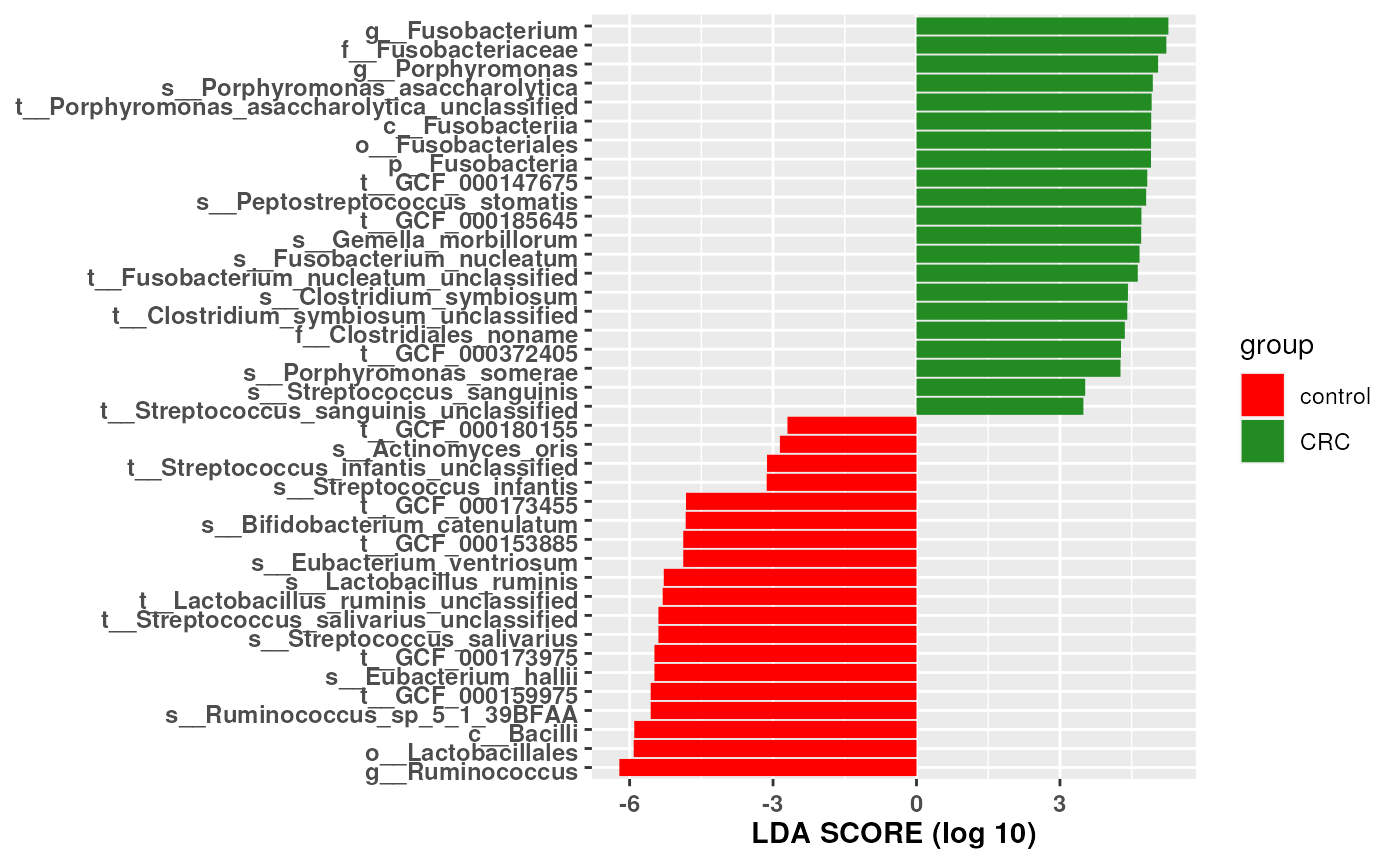
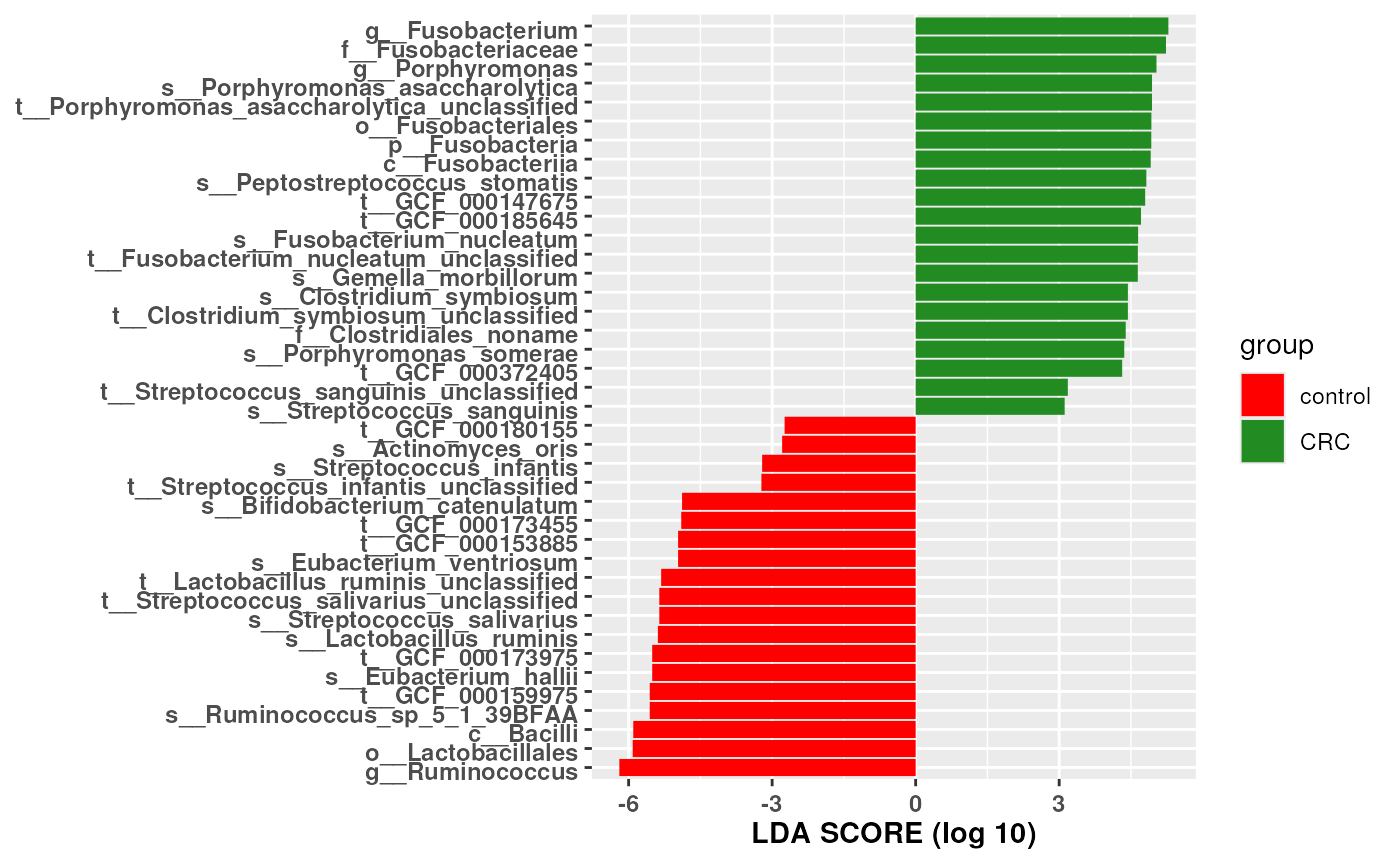
Deploying to gh-pages from @ waldronlab/lefser@6851bfaf45c864bd731128abd660fc733ccc9e46 🚀

diff --git a/articles/lefser.html b/articles/lefser.html
@@ -39,7 +39,7 @@
       </button>
       <span class="navbar-brand">
         <a class="navbar-link" href="../index.html">lefser</a>
-        <span class="version label label-default" data-toggle="tooltip" data-placement="bottom" title="">1.12.1</span>
+        <span class="version label label-default" data-toggle="tooltip" data-placement="bottom" title="">1.12.2</span>
       </span>
     </div>
 
@@ -82,7 +82,7 @@ Waldron<br><small>School of Public Health, City University of New
 York</small>
 </div></h4>
             
-            <h4 data-toc-skip class="date">2023-11-22</h4>
+            <h4 data-toc-skip class="date">2024-03-06</h4>
       
       <small class="dont-index">Source: <a href="https://github.com/waldronlab/lefser/blob/HEAD/vignettes/lefser.Rmd" class="external-link"><code>vignettes/lefser.Rmd</code></a></small>
       <div class="hidden name"><code>lefser.Rmd</code></div>
@@ -174,12 +174,12 @@ and their effect size.</p>
 <span><span class="co">## 5 k__Bacteria|p__Firmicutes|c__Clostridia|o__Clostridiales|f__Ruminococcaceae|g__Ruminococcus|s__Ruminococcus_sp_5_1_39BFAA|t__GCF_000159975</span></span>
 <span><span class="co">## 6                            k__Bacteria|p__Firmicutes|c__Clostridia|o__Clostridiales|f__Eubacteriaceae|g__Eubacterium|s__Eubacterium_hallii</span></span>
 <span><span class="co">##      scores</span></span>
-<span><span class="co">## 1 -6.214370</span></span>
-<span><span class="co">## 2 -5.914134</span></span>
-<span><span class="co">## 3 -5.902040</span></span>
-<span><span class="co">## 4 -5.558476</span></span>
-<span><span class="co">## 5 -5.558476</span></span>
-<span><span class="co">## 6 -5.480268</span></span></code></pre>
+<span><span class="co">## 1 -6.193941</span></span>
+<span><span class="co">## 2 -5.914844</span></span>
+<span><span class="co">## 3 -5.903174</span></span>
+<span><span class="co">## 4 -5.558376</span></span>
+<span><span class="co">## 5 -5.558376</span></span>
+<span><span class="co">## 6 -5.507090</span></span></code></pre>
 </div>
 <div class="section level2">
 <h2 id="visualizing-results-with-lefserplot">Visualizing results with <code>lefserPlot</code><a class="anchor" aria-label="anchor" href="#visualizing-results-with-lefserplot"></a>
@@ -273,47 +273,47 @@ follows:</p>
 <span><span class="co">## [8] base     </span></span>
 <span><span class="co">## </span></span>
 <span><span class="co">## other attached packages:</span></span>
-<span><span class="co">##  [1] phyloseq_1.46.0             lefser_1.12.1              </span></span>
+<span><span class="co">##  [1] phyloseq_1.46.0             lefser_1.12.2              </span></span>
 <span><span class="co">##  [3] SummarizedExperiment_1.32.0 Biobase_2.62.0             </span></span>
-<span><span class="co">##  [5] GenomicRanges_1.54.1        GenomeInfoDb_1.38.1        </span></span>
-<span><span class="co">##  [7] IRanges_2.36.0              S4Vectors_0.40.1           </span></span>
+<span><span class="co">##  [5] GenomicRanges_1.54.1        GenomeInfoDb_1.38.6        </span></span>
+<span><span class="co">##  [7] IRanges_2.36.0              S4Vectors_0.40.2           </span></span>
 <span><span class="co">##  [9] BiocGenerics_0.48.1         MatrixGenerics_1.14.0      </span></span>
-<span><span class="co">## [11] matrixStats_1.1.0           BiocStyle_2.30.0           </span></span>
+<span><span class="co">## [11] matrixStats_1.2.0           BiocStyle_2.30.0           </span></span>
 <span><span class="co">## </span></span>
 <span><span class="co">## loaded via a namespace (and not attached):</span></span>
-<span><span class="co">##  [1] bitops_1.0-7            permute_0.9-7           sandwich_3.0-2         </span></span>
-<span><span class="co">##  [4] rlang_1.1.2             magrittr_2.0.3          multcomp_1.4-25        </span></span>
-<span><span class="co">##  [7] ade4_1.7-22             compiler_4.3.2          mgcv_1.9-0             </span></span>
-<span><span class="co">## [10] systemfonts_1.0.5       vctrs_0.6.4             reshape2_1.4.4         </span></span>
+<span><span class="co">##  [1] bitops_1.0-7            permute_0.9-7           sandwich_3.1-0         </span></span>
+<span><span class="co">##  [4] rlang_1.1.3             magrittr_2.0.3          multcomp_1.4-25        </span></span>
+<span><span class="co">##  [7] ade4_1.7-22             compiler_4.3.2          mgcv_1.9-1             </span></span>
+<span><span class="co">## [10] systemfonts_1.0.5       vctrs_0.6.5             reshape2_1.4.4         </span></span>
 <span><span class="co">## [13] stringr_1.5.1           pkgconfig_2.0.3         crayon_1.5.2           </span></span>
 <span><span class="co">## [16] fastmap_1.1.1           XVector_0.42.0          labeling_0.4.3         </span></span>
-<span><span class="co">## [19] utf8_1.2.4              rmarkdown_2.25          ragg_1.2.6             </span></span>
-<span><span class="co">## [22] purrr_1.0.2             xfun_0.41               modeltools_0.2-23      </span></span>
-<span><span class="co">## [25] zlibbioc_1.48.0         cachem_1.0.8            jsonlite_1.8.7         </span></span>
+<span><span class="co">## [19] utf8_1.2.4              rmarkdown_2.25          ragg_1.2.7             </span></span>
+<span><span class="co">## [22] purrr_1.0.2             xfun_0.42               modeltools_0.2-23      </span></span>
+<span><span class="co">## [25] zlibbioc_1.48.0         cachem_1.0.8            jsonlite_1.8.8         </span></span>
 <span><span class="co">## [28] biomformat_1.30.0       highr_0.10              rhdf5filters_1.14.1    </span></span>
-<span><span class="co">## [31] DelayedArray_0.28.0     Rhdf5lib_1.24.0         parallel_4.3.2         </span></span>
-<span><span class="co">## [34] cluster_2.1.4           R6_2.5.1                coin_1.4-3             </span></span>
-<span><span class="co">## [37] bslib_0.5.1             stringi_1.8.1           jquerylib_0.1.4        </span></span>
-<span><span class="co">## [40] Rcpp_1.0.11             bookdown_0.36           iterators_1.0.14       </span></span>
-<span><span class="co">## [43] knitr_1.45              zoo_1.8-12              Matrix_1.6-3           </span></span>
-<span><span class="co">## [46] splines_4.3.2           igraph_1.5.1            tidyselect_1.2.0       </span></span>
-<span><span class="co">## [49] abind_1.4-5             yaml_2.3.7              vegan_2.6-4            </span></span>
+<span><span class="co">## [31] DelayedArray_0.28.0     Rhdf5lib_1.24.2         parallel_4.3.2         </span></span>
+<span><span class="co">## [34] cluster_2.1.6           R6_2.5.1                coin_1.4-3             </span></span>
+<span><span class="co">## [37] bslib_0.6.1             stringi_1.8.3           jquerylib_0.1.4        </span></span>
+<span><span class="co">## [40] Rcpp_1.0.12             bookdown_0.38           iterators_1.0.14       </span></span>
+<span><span class="co">## [43] knitr_1.45              zoo_1.8-12              Matrix_1.6-5           </span></span>
+<span><span class="co">## [46] splines_4.3.2           igraph_2.0.2            tidyselect_1.2.0       </span></span>
+<span><span class="co">## [49] abind_1.4-5             yaml_2.3.8              vegan_2.6-4            </span></span>
 <span><span class="co">## [52] codetools_0.2-19        lattice_0.22-5          tibble_3.2.1           </span></span>
-<span><span class="co">## [55] plyr_1.8.9              withr_2.5.2             evaluate_0.23          </span></span>
-<span><span class="co">## [58] desc_1.4.2              survival_3.5-7          Biostrings_2.70.1      </span></span>
+<span><span class="co">## [55] plyr_1.8.9              withr_3.0.0             evaluate_0.23          </span></span>
+<span><span class="co">## [58] desc_1.4.3              survival_3.5-8          Biostrings_2.70.2      </span></span>
 <span><span class="co">## [61] pillar_1.9.0            BiocManager_1.30.22     foreach_1.5.2          </span></span>
-<span><span class="co">## [64] generics_0.1.3          rprojroot_2.0.4         RCurl_1.98-1.13        </span></span>
-<span><span class="co">## [67] ggplot2_3.4.4           munsell_0.5.0           scales_1.2.1           </span></span>
-<span><span class="co">## [70] glue_1.6.2              tools_4.3.2             data.table_1.14.8      </span></span>
-<span><span class="co">## [73] fs_1.6.3                mvtnorm_1.2-3           rhdf5_2.46.0           </span></span>
-<span><span class="co">## [76] grid_4.3.2              ape_5.7-1               libcoin_1.0-10         </span></span>
-<span><span class="co">## [79] colorspace_2.1-0        nlme_3.1-163            GenomeInfoDbData_1.2.11</span></span>
-<span><span class="co">## [82] cli_3.6.1               textshaping_0.3.7       fansi_1.0.5            </span></span>
-<span><span class="co">## [85] S4Arrays_1.2.0          dplyr_1.1.4             gtable_0.3.4           </span></span>
-<span><span class="co">## [88] sass_0.4.7              digest_0.6.33           SparseArray_1.2.2      </span></span>
-<span><span class="co">## [91] TH.data_1.1-2           farver_2.1.1            memoise_2.0.1          </span></span>
-<span><span class="co">## [94] htmltools_0.5.7         pkgdown_2.0.7           multtest_2.58.0        </span></span>
-<span><span class="co">## [97] lifecycle_1.0.4         MASS_7.3-60</span></span></code></pre>
+<span><span class="co">## [64] generics_0.1.3          RCurl_1.98-1.14         ggplot2_3.5.0          </span></span>
+<span><span class="co">## [67] munsell_0.5.0           scales_1.3.0            glue_1.7.0             </span></span>
+<span><span class="co">## [70] tools_4.3.2             data.table_1.15.2       fs_1.6.3               </span></span>
+<span><span class="co">## [73] mvtnorm_1.2-4           rhdf5_2.46.1            grid_4.3.2             </span></span>
+<span><span class="co">## [76] ape_5.7-1               libcoin_1.0-10          colorspace_2.1-0       </span></span>
+<span><span class="co">## [79] nlme_3.1-164            GenomeInfoDbData_1.2.11 cli_3.6.2              </span></span>
+<span><span class="co">## [82] textshaping_0.3.7       fansi_1.0.6             S4Arrays_1.2.1         </span></span>
+<span><span class="co">## [85] dplyr_1.1.4             gtable_0.3.4            sass_0.4.8             </span></span>
+<span><span class="co">## [88] digest_0.6.34           SparseArray_1.2.4       TH.data_1.1-2          </span></span>
+<span><span class="co">## [91] farver_2.1.1            memoise_2.0.1           htmltools_0.5.7        </span></span>
+<span><span class="co">## [94] pkgdown_2.0.7           multtest_2.58.0         lifecycle_1.0.4        </span></span>
+<span><span class="co">## [97] MASS_7.3-60.0.1</span></span></code></pre>
 </details>
 </div>
 </div>

diff --git a/reference/lefserPlot.html b/reference/lefserPlot.html
@@ -24,7 +24,7 @@ and whether they are more abundant in '0' or '1' sample group."><!-- mathjax -->
       </button>
       <span class="navbar-brand">
         <a class="navbar-link" href="../index.html">lefser</a>
-        <span class="version label label-default" data-toggle="tooltip" data-placement="bottom" title="">1.12.1</span>
+        <span class="version label label-default" data-toggle="tooltip" data-placement="bottom" title="">1.12.2</span>
       </span>
     </div>
 
@@ -112,15 +112,15 @@ Negative scores represent microorganisms with that are more abundant in class '0
 <span class="r-out co"><span class="r-pr">#&gt;</span> 2                                                                        k__Bacteria|p__Bacteroidetes|c__Bacteroidia|o__Bacteroidales</span>
 <span class="r-out co"><span class="r-pr">#&gt;</span> 3                                                                                                        k__Bacteria|p__Bacteroidetes</span>
 <span class="r-out co"><span class="r-pr">#&gt;</span> 4                                                  k__Bacteria|p__Bacteroidetes|c__Bacteroidia|o__Bacteroidales|f__Porphyromonadaceae</span>
-<span class="r-out co"><span class="r-pr">#&gt;</span> 5                  k__Bacteria|p__Firmicutes|c__Clostridia|o__Clostridiales|f__Lachnospiraceae|g__Coprococcus|s__Coprococcus_eutactus</span>
-<span class="r-out co"><span class="r-pr">#&gt;</span> 6 k__Bacteria|p__Firmicutes|c__Clostridia|o__Clostridiales|f__Lachnospiraceae|g__Coprococcus|s__Coprococcus_eutactus|t__GCF_000154425</span>
+<span class="r-out co"><span class="r-pr">#&gt;</span> 5 k__Bacteria|p__Firmicutes|c__Clostridia|o__Clostridiales|f__Lachnospiraceae|g__Coprococcus|s__Coprococcus_eutactus|t__GCF_000154425</span>
+<span class="r-out co"><span class="r-pr">#&gt;</span> 6                  k__Bacteria|p__Firmicutes|c__Clostridia|o__Clostridiales|f__Lachnospiraceae|g__Coprococcus|s__Coprococcus_eutactus</span>
 <span class="r-out co"><span class="r-pr">#&gt;</span>      scores</span>
-<span class="r-out co"><span class="r-pr">#&gt;</span> 1 -6.328647</span>
-<span class="r-out co"><span class="r-pr">#&gt;</span> 2 -6.328647</span>
-<span class="r-out co"><span class="r-pr">#&gt;</span> 3 -6.328595</span>
-<span class="r-out co"><span class="r-pr">#&gt;</span> 4 -5.749317</span>
-<span class="r-out co"><span class="r-pr">#&gt;</span> 5 -5.550262</span>
-<span class="r-out co"><span class="r-pr">#&gt;</span> 6 -5.538754</span>
+<span class="r-out co"><span class="r-pr">#&gt;</span> 1 -6.406226</span>
+<span class="r-out co"><span class="r-pr">#&gt;</span> 2 -6.406226</span>
+<span class="r-out co"><span class="r-pr">#&gt;</span> 3 -6.406201</span>
+<span class="r-out co"><span class="r-pr">#&gt;</span> 4 -5.758285</span>
+<span class="r-out co"><span class="r-pr">#&gt;</span> 5 -5.638205</span>
+<span class="r-out co"><span class="r-pr">#&gt;</span> 6 -5.593375</span>
 <span class="r-out co"><span class="r-pr">#&gt;</span> </span>
 <span class="r-out co"><span class="r-pr">#&gt;</span> lefser&gt;     # (2) Using classes and sublasses</span>
 <span class="r-out co"><span class="r-pr">#&gt;</span> lefser&gt;     data(zeller14)</span>
@@ -136,20 +136,20 @@ Negative scores represent microorganisms with that are more abundant in class '0
 <span class="r-msg co"><span class="r-pr">#&gt;</span>  See `?factor` or `?relevel` to change the reference category.</span>
 <span class="r-out co"><span class="r-pr">#&gt;</span> </span>
 <span class="r-out co"><span class="r-pr">#&gt;</span> lefser&gt;     head(res_block)</span>
-<span class="r-out co"><span class="r-pr">#&gt;</span>                                                                                                                                                                                Names</span>
-<span class="r-out co"><span class="r-pr">#&gt;</span> 1                                                                                                k__Bacteria|p__Fusobacteria|c__Fusobacteriia|o__Fusobacteriales|f__Fusobacteriaceae</span>
-<span class="r-out co"><span class="r-pr">#&gt;</span> 2                                                                               k__Bacteria|p__Fusobacteria|c__Fusobacteriia|o__Fusobacteriales|f__Fusobacteriaceae|g__Fusobacterium</span>
-<span class="r-out co"><span class="r-pr">#&gt;</span> 3                                                                                k__Bacteria|p__Bacteroidetes|c__Bacteroidia|o__Bacteroidales|f__Porphyromonadaceae|g__Porphyromonas</span>
-<span class="r-out co"><span class="r-pr">#&gt;</span> 4                                               k__Bacteria|p__Bacteroidetes|c__Bacteroidia|o__Bacteroidales|f__Porphyromonadaceae|g__Porphyromonas|s__Porphyromonas_asaccharolytica</span>
-<span class="r-out co"><span class="r-pr">#&gt;</span> 5 k__Bacteria|p__Bacteroidetes|c__Bacteroidia|o__Bacteroidales|f__Porphyromonadaceae|g__Porphyromonas|s__Porphyromonas_asaccharolytica|t__Porphyromonas_asaccharolytica_unclassified</span>
-<span class="r-out co"><span class="r-pr">#&gt;</span> 6                                                                                                                                       k__Bacteria|p__Fusobacteria|c__Fusobacteriia</span>
+<span class="r-out co"><span class="r-pr">#&gt;</span>                                                                                                                                  Names</span>
+<span class="r-out co"><span class="r-pr">#&gt;</span> 1                                                  k__Bacteria|p__Fusobacteria|c__Fusobacteriia|o__Fusobacteriales|f__Fusobacteriaceae</span>
+<span class="r-out co"><span class="r-pr">#&gt;</span> 2                                 k__Bacteria|p__Fusobacteria|c__Fusobacteriia|o__Fusobacteriales|f__Fusobacteriaceae|g__Fusobacterium</span>
+<span class="r-out co"><span class="r-pr">#&gt;</span> 3                                  k__Bacteria|p__Bacteroidetes|c__Bacteroidia|o__Bacteroidales|f__Porphyromonadaceae|g__Porphyromonas</span>
+<span class="r-out co"><span class="r-pr">#&gt;</span> 4                                                                                                          k__Bacteria|p__Fusobacteria</span>
+<span class="r-out co"><span class="r-pr">#&gt;</span> 5                                                                      k__Bacteria|p__Fusobacteria|c__Fusobacteriia|o__Fusobacteriales</span>
+<span class="r-out co"><span class="r-pr">#&gt;</span> 6 k__Bacteria|p__Bacteroidetes|c__Bacteroidia|o__Bacteroidales|f__Porphyromonadaceae|g__Porphyromonas|s__Porphyromonas_asaccharolytica</span>
 <span class="r-out co"><span class="r-pr">#&gt;</span>      scores</span>
-<span class="r-out co"><span class="r-pr">#&gt;</span> 1 -5.229792</span>
-<span class="r-out co"><span class="r-pr">#&gt;</span> 2 -5.216477</span>
-<span class="r-out co"><span class="r-pr">#&gt;</span> 3 -5.017874</span>
-<span class="r-out co"><span class="r-pr">#&gt;</span> 4 -4.953679</span>
-<span class="r-out co"><span class="r-pr">#&gt;</span> 5 -4.938438</span>
-<span class="r-out co"><span class="r-pr">#&gt;</span> 6 -4.857611</span>
+<span class="r-out co"><span class="r-pr">#&gt;</span> 1 -5.331489</span>
+<span class="r-out co"><span class="r-pr">#&gt;</span> 2 -5.232178</span>
+<span class="r-out co"><span class="r-pr">#&gt;</span> 3 -5.051428</span>
+<span class="r-out co"><span class="r-pr">#&gt;</span> 4 -4.924990</span>
+<span class="r-out co"><span class="r-pr">#&gt;</span> 5 -4.923957</span>
+<span class="r-out co"><span class="r-pr">#&gt;</span> 6 -4.922982</span>
 <span class="r-in"><span><span class="fu">lefserPlot</span><span class="op">(</span><span class="va">res_group</span><span class="op">)</span></span></span>
 <span class="r-plt img"><img src="lefserPlot-1.png" alt="" width="700" height="433"></span>
 </code></pre></div>

diff --git a/reference/lefser.html b/reference/lefser.html
@@ -27,7 +27,7 @@ are identified as biomarkers."><!-- mathjax --><script src="https://cdnjs.cloudf
       </button>
       <span class="navbar-brand">
         <a class="navbar-link" href="../index.html">lefser</a>
-        <span class="version label label-default" data-toggle="tooltip" data-placement="bottom" title="">1.12.1</span>
+        <span class="version label label-default" data-toggle="tooltip" data-placement="bottom" title="">1.12.2</span>
       </span>
     </div>
 
@@ -178,12 +178,12 @@ argument to <code>FALSE</code>.</p>
 <span class="r-out co"><span class="r-pr">#&gt;</span> 5                  k__Bacteria|p__Firmicutes|c__Clostridia|o__Clostridiales|f__Lachnospiraceae|g__Coprococcus|s__Coprococcus_eutactus</span>
 <span class="r-out co"><span class="r-pr">#&gt;</span> 6 k__Bacteria|p__Firmicutes|c__Clostridia|o__Clostridiales|f__Lachnospiraceae|g__Coprococcus|s__Coprococcus_eutactus|t__GCF_000154425</span>
 <span class="r-out co"><span class="r-pr">#&gt;</span>      scores</span>
-<span class="r-out co"><span class="r-pr">#&gt;</span> 1 -6.336653</span>
-<span class="r-out co"><span class="r-pr">#&gt;</span> 2 -6.336653</span>
-<span class="r-out co"><span class="r-pr">#&gt;</span> 3 -6.336612</span>
-<span class="r-out co"><span class="r-pr">#&gt;</span> 4 -5.757507</span>
-<span class="r-out co"><span class="r-pr">#&gt;</span> 5 -5.506376</span>
-<span class="r-out co"><span class="r-pr">#&gt;</span> 6 -5.492191</span>
+<span class="r-out co"><span class="r-pr">#&gt;</span> 1 -6.364356</span>
+<span class="r-out co"><span class="r-pr">#&gt;</span> 2 -6.364356</span>
+<span class="r-out co"><span class="r-pr">#&gt;</span> 3 -6.364325</span>
+<span class="r-out co"><span class="r-pr">#&gt;</span> 4 -5.791754</span>
+<span class="r-out co"><span class="r-pr">#&gt;</span> 5 -5.622091</span>
+<span class="r-out co"><span class="r-pr">#&gt;</span> 6 -5.566016</span>
 <span class="r-in"><span></span></span>
 <span class="r-in"><span>    <span class="co"># (2) Using classes and sublasses</span></span></span>
 <span class="r-in"><span>    <span class="fu"><a href="https://rdrr.io/r/utils/data.html" class="external-link">data</a></span><span class="op">(</span><span class="va">zeller14</span><span class="op">)</span></span></span>
@@ -197,19 +197,19 @@ argument to <code>FALSE</code>.</p>
 <span class="r-msg co"><span class="r-pr">#&gt;</span>  See `?factor` or `?relevel` to change the reference category.</span>
 <span class="r-in"><span>    <span class="fu"><a href="https://rdrr.io/r/utils/head.html" class="external-link">head</a></span><span class="op">(</span><span class="va">res_block</span><span class="op">)</span></span></span>
 <span class="r-out co"><span class="r-pr">#&gt;</span>                                                                                                                                                                                Names</span>
-<span class="r-out co"><span class="r-pr">#&gt;</span> 1                                                                                                k__Bacteria|p__Fusobacteria|c__Fusobacteriia|o__Fusobacteriales|f__Fusobacteriaceae</span>
-<span class="r-out co"><span class="r-pr">#&gt;</span> 2                                                                               k__Bacteria|p__Fusobacteria|c__Fusobacteriia|o__Fusobacteriales|f__Fusobacteriaceae|g__Fusobacterium</span>
+<span class="r-out co"><span class="r-pr">#&gt;</span> 1                                                                               k__Bacteria|p__Fusobacteria|c__Fusobacteriia|o__Fusobacteriales|f__Fusobacteriaceae|g__Fusobacterium</span>
+<span class="r-out co"><span class="r-pr">#&gt;</span> 2                                                                                                k__Bacteria|p__Fusobacteria|c__Fusobacteriia|o__Fusobacteriales|f__Fusobacteriaceae</span>
 <span class="r-out co"><span class="r-pr">#&gt;</span> 3                                                                                k__Bacteria|p__Bacteroidetes|c__Bacteroidia|o__Bacteroidales|f__Porphyromonadaceae|g__Porphyromonas</span>
-<span class="r-out co"><span class="r-pr">#&gt;</span> 4                                               k__Bacteria|p__Bacteroidetes|c__Bacteroidia|o__Bacteroidales|f__Porphyromonadaceae|g__Porphyromonas|s__Porphyromonas_asaccharolytica</span>
-<span class="r-out co"><span class="r-pr">#&gt;</span> 5 k__Bacteria|p__Bacteroidetes|c__Bacteroidia|o__Bacteroidales|f__Porphyromonadaceae|g__Porphyromonas|s__Porphyromonas_asaccharolytica|t__Porphyromonas_asaccharolytica_unclassified</span>
-<span class="r-out co"><span class="r-pr">#&gt;</span> 6                                             k__Bacteria|p__Firmicutes|c__Clostridia|o__Clostridiales|f__Peptostreptococcaceae|g__Peptostreptococcus|s__Peptostreptococcus_stomatis</span>
+<span class="r-out co"><span class="r-pr">#&gt;</span> 4 k__Bacteria|p__Bacteroidetes|c__Bacteroidia|o__Bacteroidales|f__Porphyromonadaceae|g__Porphyromonas|s__Porphyromonas_asaccharolytica|t__Porphyromonas_asaccharolytica_unclassified</span>
+<span class="r-out co"><span class="r-pr">#&gt;</span> 5                                               k__Bacteria|p__Bacteroidetes|c__Bacteroidia|o__Bacteroidales|f__Porphyromonadaceae|g__Porphyromonas|s__Porphyromonas_asaccharolytica</span>
+<span class="r-out co"><span class="r-pr">#&gt;</span> 6                                                                                                                    k__Bacteria|p__Fusobacteria|c__Fusobacteriia|o__Fusobacteriales</span>
 <span class="r-out co"><span class="r-pr">#&gt;</span>      scores</span>
-<span class="r-out co"><span class="r-pr">#&gt;</span> 1 -5.183721</span>
-<span class="r-out co"><span class="r-pr">#&gt;</span> 2 -5.145483</span>
-<span class="r-out co"><span class="r-pr">#&gt;</span> 3 -4.969229</span>
-<span class="r-out co"><span class="r-pr">#&gt;</span> 4 -4.886948</span>
-<span class="r-out co"><span class="r-pr">#&gt;</span> 5 -4.879742</span>
-<span class="r-out co"><span class="r-pr">#&gt;</span> 6 -4.794062</span>
+<span class="r-out co"><span class="r-pr">#&gt;</span> 1 -5.233182</span>
+<span class="r-out co"><span class="r-pr">#&gt;</span> 2 -5.212977</span>
+<span class="r-out co"><span class="r-pr">#&gt;</span> 3 -5.039454</span>
+<span class="r-out co"><span class="r-pr">#&gt;</span> 4 -4.987723</span>
+<span class="r-out co"><span class="r-pr">#&gt;</span> 5 -4.932632</span>
+<span class="r-out co"><span class="r-pr">#&gt;</span> 6 -4.840816</span>
 </code></pre></div>
     </div>
   </div>

diff --git a/reference/relativeAb.html b/reference/relativeAb.html
@@ -1,6 +1,8 @@
 <!DOCTYPE html>
 <!-- Generated by pkgdown: do not edit by hand --><html lang="en"><head><meta http-equiv="Content-Type" content="text/html; charset=UTF-8"><meta charset="utf-8"><meta http-equiv="X-UA-Compatible" content="IE=edge"><meta name="viewport" content="width=device-width, initial-scale=1.0"><title>Utility function to calculate relative abundances — relativeAb • lefser</title><!-- jquery --><script src="https://cdnjs.cloudflare.com/ajax/libs/jquery/3.4.1/jquery.min.js" integrity="sha256-CSXorXvZcTkaix6Yvo6HppcZGetbYMGWSFlBw8HfCJo=" crossorigin="anonymous"></script><!-- Bootstrap --><link href="https://cdnjs.cloudflare.com/ajax/libs/bootswatch/3.4.0/flatly/bootstrap.min.css" rel="stylesheet" crossorigin="anonymous"><script src="https://cdnjs.cloudflare.com/ajax/libs/twitter-bootstrap/3.4.1/js/bootstrap.min.js" integrity="sha256-nuL8/2cJ5NDSSwnKD8VqreErSWHtnEP9E7AySL+1ev4=" crossorigin="anonymous"></script><!-- bootstrap-toc --><link rel="stylesheet" href="../bootstrap-toc.css"><script src="../bootstrap-toc.js"></script><!-- Font Awesome icons --><link rel="stylesheet" href="https://cdnjs.cloudflare.com/ajax/libs/font-awesome/5.12.1/css/all.min.css" integrity="sha256-mmgLkCYLUQbXn0B1SRqzHar6dCnv9oZFPEC1g1cwlkk=" crossorigin="anonymous"><link rel="stylesheet" href="https://cdnjs.cloudflare.com/ajax/libs/font-awesome/5.12.1/css/v4-shims.min.css" integrity="sha256-wZjR52fzng1pJHwx4aV2AO3yyTOXrcDW7jBpJtTwVxw=" crossorigin="anonymous"><!-- clipboard.js --><script src="https://cdnjs.cloudflare.com/ajax/libs/clipboard.js/2.0.6/clipboard.min.js" integrity="sha256-inc5kl9MA1hkeYUt+EC3BhlIgyp/2jDIyBLS6k3UxPI=" crossorigin="anonymous"></script><!-- headroom.js --><script src="https://cdnjs.cloudflare.com/ajax/libs/headroom/0.11.0/headroom.min.js" integrity="sha256-AsUX4SJE1+yuDu5+mAVzJbuYNPHj/WroHuZ8Ir/CkE0=" crossorigin="anonymous"></script><script src="https://cdnjs.cloudflare.com/ajax/libs/headroom/0.11.0/jQuery.headroom.min.js" integrity="sha256-ZX/yNShbjqsohH1k95liqY9Gd8uOiE1S4vZc+9KQ1K4=" crossorigin="anonymous"></script><!-- pkgdown --><link href="../pkgdown.css" rel="stylesheet"><script src="../pkgdown.js"></script><meta property="og:title" content="Utility function to calculate relative abundances — relativeAb"><meta property="og:description" content="The function calculates the column totals and divides each value within the
-column by the respective column total."><!-- mathjax --><script src="https://cdnjs.cloudflare.com/ajax/libs/mathjax/2.7.5/MathJax.js" integrity="sha256-nvJJv9wWKEm88qvoQl9ekL2J+k/RWIsaSScxxlsrv8k=" crossorigin="anonymous"></script><script src="https://cdnjs.cloudflare.com/ajax/libs/mathjax/2.7.5/config/TeX-AMS-MML_HTMLorMML.js" integrity="sha256-84DKXVJXs0/F8OTMzX4UR909+jtl4G7SPypPavF+GfA=" crossorigin="anonymous"></script><!--[if lt IE 9]>
+column by the respective column total.
+This function calculates the relative abundance of each feature in the SummarizedExperiment
+object containing count data, expressed as counts per million (CPM)"><!-- mathjax --><script src="https://cdnjs.cloudflare.com/ajax/libs/mathjax/2.7.5/MathJax.js" integrity="sha256-nvJJv9wWKEm88qvoQl9ekL2J+k/RWIsaSScxxlsrv8k=" crossorigin="anonymous"></script><script src="https://cdnjs.cloudflare.com/ajax/libs/mathjax/2.7.5/config/TeX-AMS-MML_HTMLorMML.js" integrity="sha256-84DKXVJXs0/F8OTMzX4UR909+jtl4G7SPypPavF+GfA=" crossorigin="anonymous"></script><!--[if lt IE 9]>
 <script src="https://oss.maxcdn.com/html5shiv/3.7.3/html5shiv.min.js"></script>
 <script src="https://oss.maxcdn.com/respond/1.4.2/respond.min.js"></script>
 <![endif]--><!-- Global site tag (gtag.js) - Google Analytics --><script async src="https://www.googletagmanager.com/gtag/js?id=UA-90028752-3"></script><script>
@@ -24,7 +26,7 @@ column by the respective column total."><!-- mathjax --><script src="https://cdn
       </button>
       <span class="navbar-brand">
         <a class="navbar-link" href="../index.html">lefser</a>
-        <span class="version label label-default" data-toggle="tooltip" data-placement="bottom" title="">1.12.1</span>
+        <span class="version label label-default" data-toggle="tooltip" data-placement="bottom" title="">1.12.2</span>
       </span>
     </div>
 
@@ -61,6 +63,8 @@ column by the respective column total."><!-- mathjax --><script src="https://cdn
     <div class="ref-description">
     <p>The function calculates the column totals and divides each value within the
 column by the respective column total.</p>
+<p>This function calculates the relative abundance of each feature in the SummarizedExperiment
+object containing count data, expressed as counts per million (CPM)</p>
     </div>
 
     <div id="ref-usage">
@@ -78,6 +82,13 @@ column by the respective column total.</p>
 default 1).</p></dd>
 
 </dl></div>
+    <div id="value">
+    <h2>Value</h2>
+    
+
+<p>returns a new SummarizedExperiment object with counts per million
+calculated and added as a new assay named rel_abs.</p>
+    </div>
 
     <div id="ref-examples">
     <h2>Examples</h2>
@@ -96,11 +107,11 @@ default 1).</p></dd>
 <span class="r-out co"><span class="r-pr">#&gt;</span> C    1</span>
 <span class="r-out co"><span class="r-pr">#&gt;</span> D    1</span>
 <span class="r-in"><span><span class="fu">assay</span><span class="op">(</span><span class="fu">relativeAb</span><span class="op">(</span><span class="va">se</span><span class="op">)</span><span class="op">)</span></span></span>
-<span class="r-out co"><span class="r-pr">#&gt;</span>   SAMP</span>
-<span class="r-out co"><span class="r-pr">#&gt;</span> A 0.25</span>
-<span class="r-out co"><span class="r-pr">#&gt;</span> B 0.25</span>
-<span class="r-out co"><span class="r-pr">#&gt;</span> C 0.25</span>
-<span class="r-out co"><span class="r-pr">#&gt;</span> D 0.25</span>
+<span class="r-out co"><span class="r-pr">#&gt;</span>     SAMP</span>
+<span class="r-out co"><span class="r-pr">#&gt;</span> A 250000</span>
+<span class="r-out co"><span class="r-pr">#&gt;</span> B 250000</span>
+<span class="r-out co"><span class="r-pr">#&gt;</span> C 250000</span>
+<span class="r-out co"><span class="r-pr">#&gt;</span> D 250000</span>
 <span class="r-in"><span></span></span>
 </code></pre></div>
     </div>

diff --git a/authors.html b/authors.html
@@ -23,7 +23,7 @@
       </button>
       <span class="navbar-brand">
         <a class="navbar-link" href="index.html">lefser</a>
-        <span class="version label label-default" data-toggle="tooltip" data-placement="bottom" title="">1.12.1</span>
+        <span class="version label label-default" data-toggle="tooltip" data-placement="bottom" title="">1.12.2</span>
       </span>
     </div>
 
@@ -86,15 +86,15 @@
     </div>
 
 
-    <p>Khleborodova A (2023).
+    <p>Khleborodova A (2024).
 <em>lefser: R implementation of the LEfSE method for microbiome biomarker discovery</em>.
-R package version 1.12.1, <a href="https://github.com/waldronlab/lefser" class="external-link">https://github.com/waldronlab/lefser</a>. 
+R package version 1.12.2, <a href="https://github.com/waldronlab/lefser" class="external-link">https://github.com/waldronlab/lefser</a>. 
 </p>
     <pre>@Manual{,
   title = {lefser: R implementation of the LEfSE method for microbiome biomarker discovery},
   author = {Asya Khleborodova},
-  year = {2023},
-  note = {R package version 1.12.1},
+  year = {2024},
+  note = {R package version 1.12.2},
   url = {https://github.com/waldronlab/lefser},
 }</pre>
 

diff --git a/reference/zeller14.html b/reference/zeller14.html
@@ -25,7 +25,7 @@ directory "data-raw".'><!-- mathjax --><script src="https://cdnjs.cloudflare.com
       </button>
       <span class="navbar-brand">
         <a class="navbar-link" href="../index.html">lefser</a>
-        <span class="version label label-default" data-toggle="tooltip" data-placement="bottom" title="">1.12.1</span>
+        <span class="version label label-default" data-toggle="tooltip" data-placement="bottom" title="">1.12.2</span>
       </span>
     </div>
 

diff --git a/404.html b/404.html
@@ -38,7 +38,7 @@
       </button>
       <span class="navbar-brand">
         <a class="navbar-link" href="https://waldronlab.io/lefser/index.html">lefser</a>
-        <span class="version label label-default" data-toggle="tooltip" data-placement="bottom" title="">1.12.1</span>
+        <span class="version label label-default" data-toggle="tooltip" data-placement="bottom" title="">1.12.2</span>
       </span>
     </div>
 

diff --git a/articles/index.html b/articles/index.html
@@ -23,7 +23,7 @@
       </button>
       <span class="navbar-brand">
         <a class="navbar-link" href="../index.html">lefser</a>
-        <span class="version label label-default" data-toggle="tooltip" data-placement="bottom" title="">1.12.1</span>
+        <span class="version label label-default" data-toggle="tooltip" data-placement="bottom" title="">1.12.2</span>
       </span>
     </div>
 

diff --git a/news/index.html b/news/index.html
@@ -23,7 +23,7 @@
       </button>
       <span class="navbar-brand">
         <a class="navbar-link" href="../index.html">lefser</a>
-        <span class="version label label-default" data-toggle="tooltip" data-placement="bottom" title="">1.12.1</span>
+        <span class="version label label-default" data-toggle="tooltip" data-placement="bottom" title="">1.12.2</span>
       </span>
     </div>
 

diff --git a/reference/index.html b/reference/index.html
@@ -23,7 +23,7 @@
       </button>
       <span class="navbar-brand">
         <a class="navbar-link" href="../index.html">lefser</a>
-        <span class="version label label-default" data-toggle="tooltip" data-placement="bottom" title="">1.12.1</span>
+        <span class="version label label-default" data-toggle="tooltip" data-placement="bottom" title="">1.12.2</span>
       </span>
     </div>
 

diff --git a/index.html b/index.html
@@ -42,7 +42,7 @@
       </button>
       <span class="navbar-brand">
         <a class="navbar-link" href="index.html">lefser</a>
-        <span class="version label label-default" data-toggle="tooltip" data-placement="bottom" title="">1.12.1</span>
+        <span class="version label label-default" data-toggle="tooltip" data-placement="bottom" title="">1.12.2</span>
       </span>
     </div>
 
